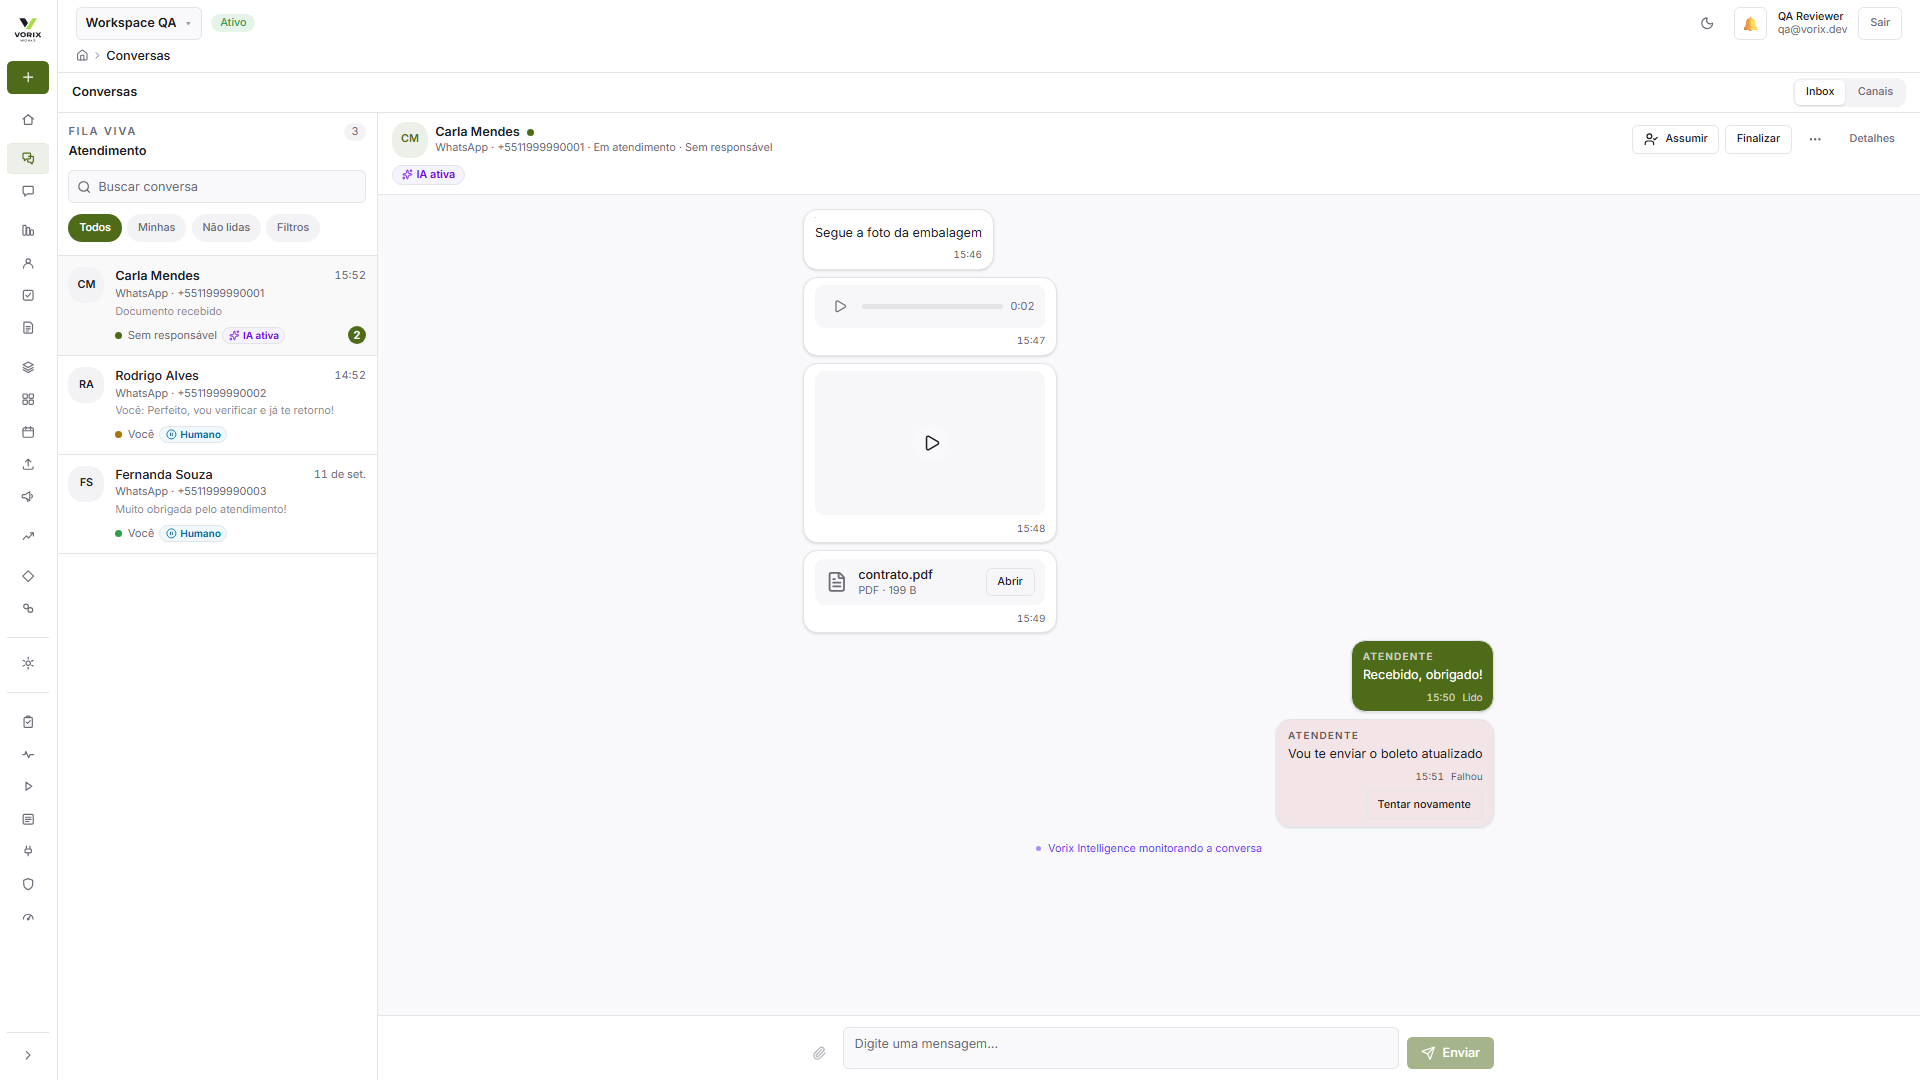
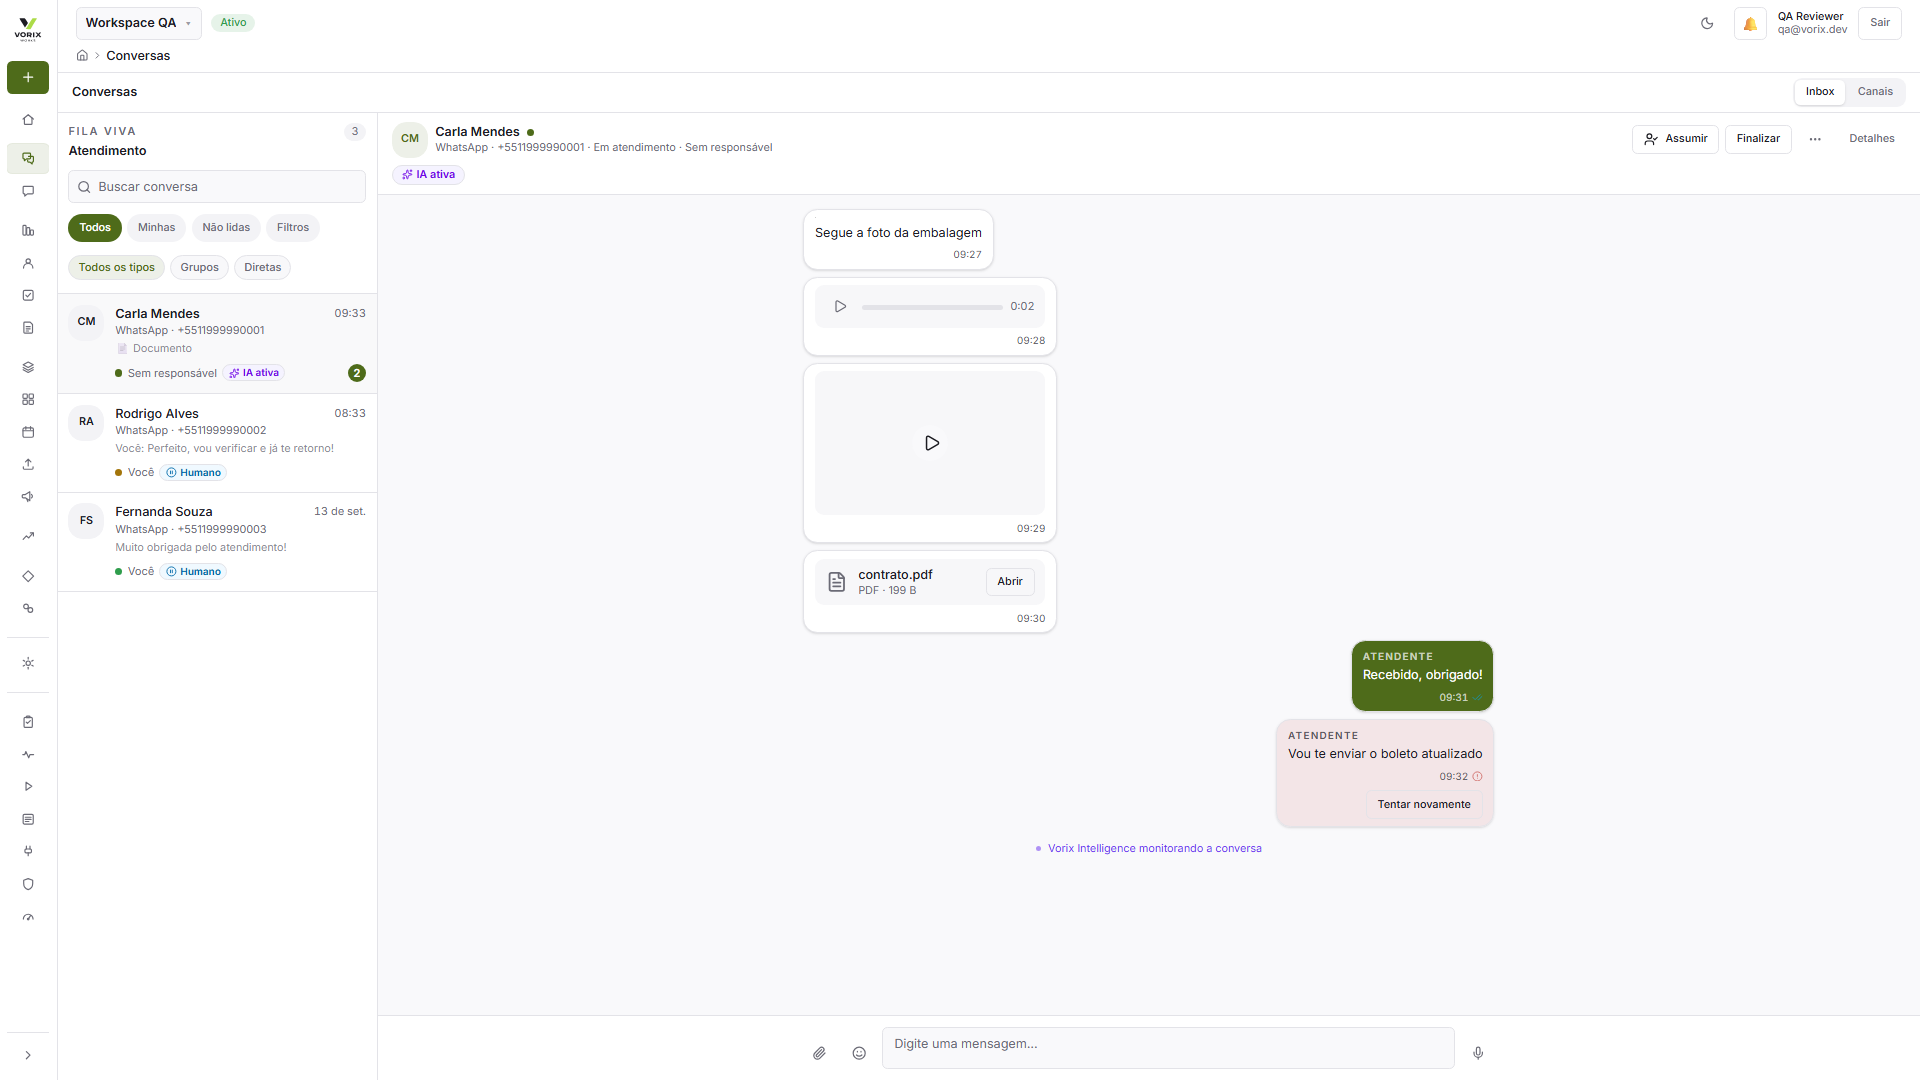
fix(inbox-ui): corrige bolha de mensagem vazia (regressão do redesign de mídia)
MessageBubble só renderizava conteúdo para os 4 tipos com renderizador
dedicado (imagem/vídeo/áudio/documento) ou quando havia texto — mensagens
location/contact/other (figurinha, reação, localização) sem body ficavam
com a bolha completamente vazia, só o horário. Regressão introduzida na
minha própria sessão anterior (redesign de mídia), relatada pelo usuário
como "bolha em branco" no uso real.

Corrigido: esses tipos agora caem no mesmo fallback ícone+rótulo que já
existia antes do redesign (mediaIconFor/mediaLabelFor), nunca mais nada.

Também atualiza docs/deployment.md com o passo de migration que faltava
(rodar scripts/migrate.mjs depois do rebuild) e ajusta um teste Playwright
desatualizado (preview da lista mudou de "Documento recebido" para "📄
Documento" numa entrega anterior de outra sessão).

diff --git a/web/app/workspaces/[workspaceId]/conversas/inbox-tab.tsx b/web/app/workspaces/[workspaceId]/conversas/inbox-tab.tsx
@@ -1159,7 +1159,21 @@ function MessageBubble({
         )}
       >
         {senderLabel ? <p className="mb-1 text-[10px] font-semibold uppercase tracking-[0.12em] opacity-70">{senderLabel}</p> : null}
-        {isMedia ? <MessageMedia workspaceId={workspaceId} message={message} /> : null}
+        {isMedia ? (
+          <MessageMedia workspaceId={workspaceId} message={message} />
+        ) : !body ? (
+          // Bug real corrigido: tipo sem renderizador dedicado (location/contact/other/sticker) e
+          // sem body deixava a bolha completamente vazia (só timestamp) — nunca mais "nada".
+          (() => {
+            const Icon = mediaIconFor(message.type);
+            return (
+              <div className="flex items-center gap-2 rounded-lg bg-muted/70 px-3 py-2 text-muted-foreground">
+                <Icon className="h-4 w-4 shrink-0" />
+                <span className="text-xs">{mediaLabelFor(message.type)}</span>
+              </div>
+            );
+          })()
+        ) : null}
         {body ? <p className={cn("whitespace-pre-wrap break-words", isMedia && "mt-1.5")}>{body}</p> : null}
         <div className="mt-1.5 flex flex-wrap items-center justify-end gap-1 text-[10px] opacity-70">
           <span className="tabular-nums">{timeLabel(message.sentAt ?? message.createdAt)}</span>

diff --git a/web/e2e/conversas-layout.spec.ts b/web/e2e/conversas-layout.spec.ts
@@ -40,7 +40,7 @@ test("Conversas preenche a altura da viewport sem scroll na página (só dentro 
 
 test("lista de conversas mostra preview real da última mensagem (texto e rótulo de mídia), não mais um placeholder genérico", async ({ page }) => {
   await page.goto(`/workspaces/${WORKSPACE_ID}/conversas`);
-  await expect(page.getByText("Documento recebido")).toBeVisible();
+  await expect(page.getByText("📄 Documento")).toBeVisible();
   await expect(page.getByText("Você: Perfeito, vou verificar e já te retorno!")).toBeVisible();
   await expect(page.getByText("Muito obrigada pelo atendimento!")).toBeVisible();
 });

diff --git a/docs/deployment.md b/docs/deployment.md
@@ -96,12 +96,20 @@ Passo a passo:
      'cd /opt/zuno && docker compose --env-file .env.zuno -f docker-compose.zuno.yml up -d --build'
    ```
 
-7. Checar saúde:
+7. **Se o deploy incluir migration nova**, aplicar DEPOIS do rebuild (o container já precisa estar
+   de pé com o código novo — `scripts/migrate.mjs` faz parte da imagem, não do host):
+
+   ```bash
+   ssh root@209.97.152.212 \
+     'cd /opt/zuno && docker compose --env-file .env.zuno -f docker-compose.zuno.yml exec -T zuno-api node scripts/migrate.mjs'
+   ```
+
+8. Checar saúde:
 
    ```bash
    curl -I https://vorixworks.com
    curl -s https://api.vorixworks.com/v1/health
-   ssh root@209.97.152.212 'docker ps | grep zuno'
+   ssh root@209.97.152.212 'docker ps --filter name=zuno --format "table {{.Names}}\t{{.Status}}"'
    ```
 
 Regras:
